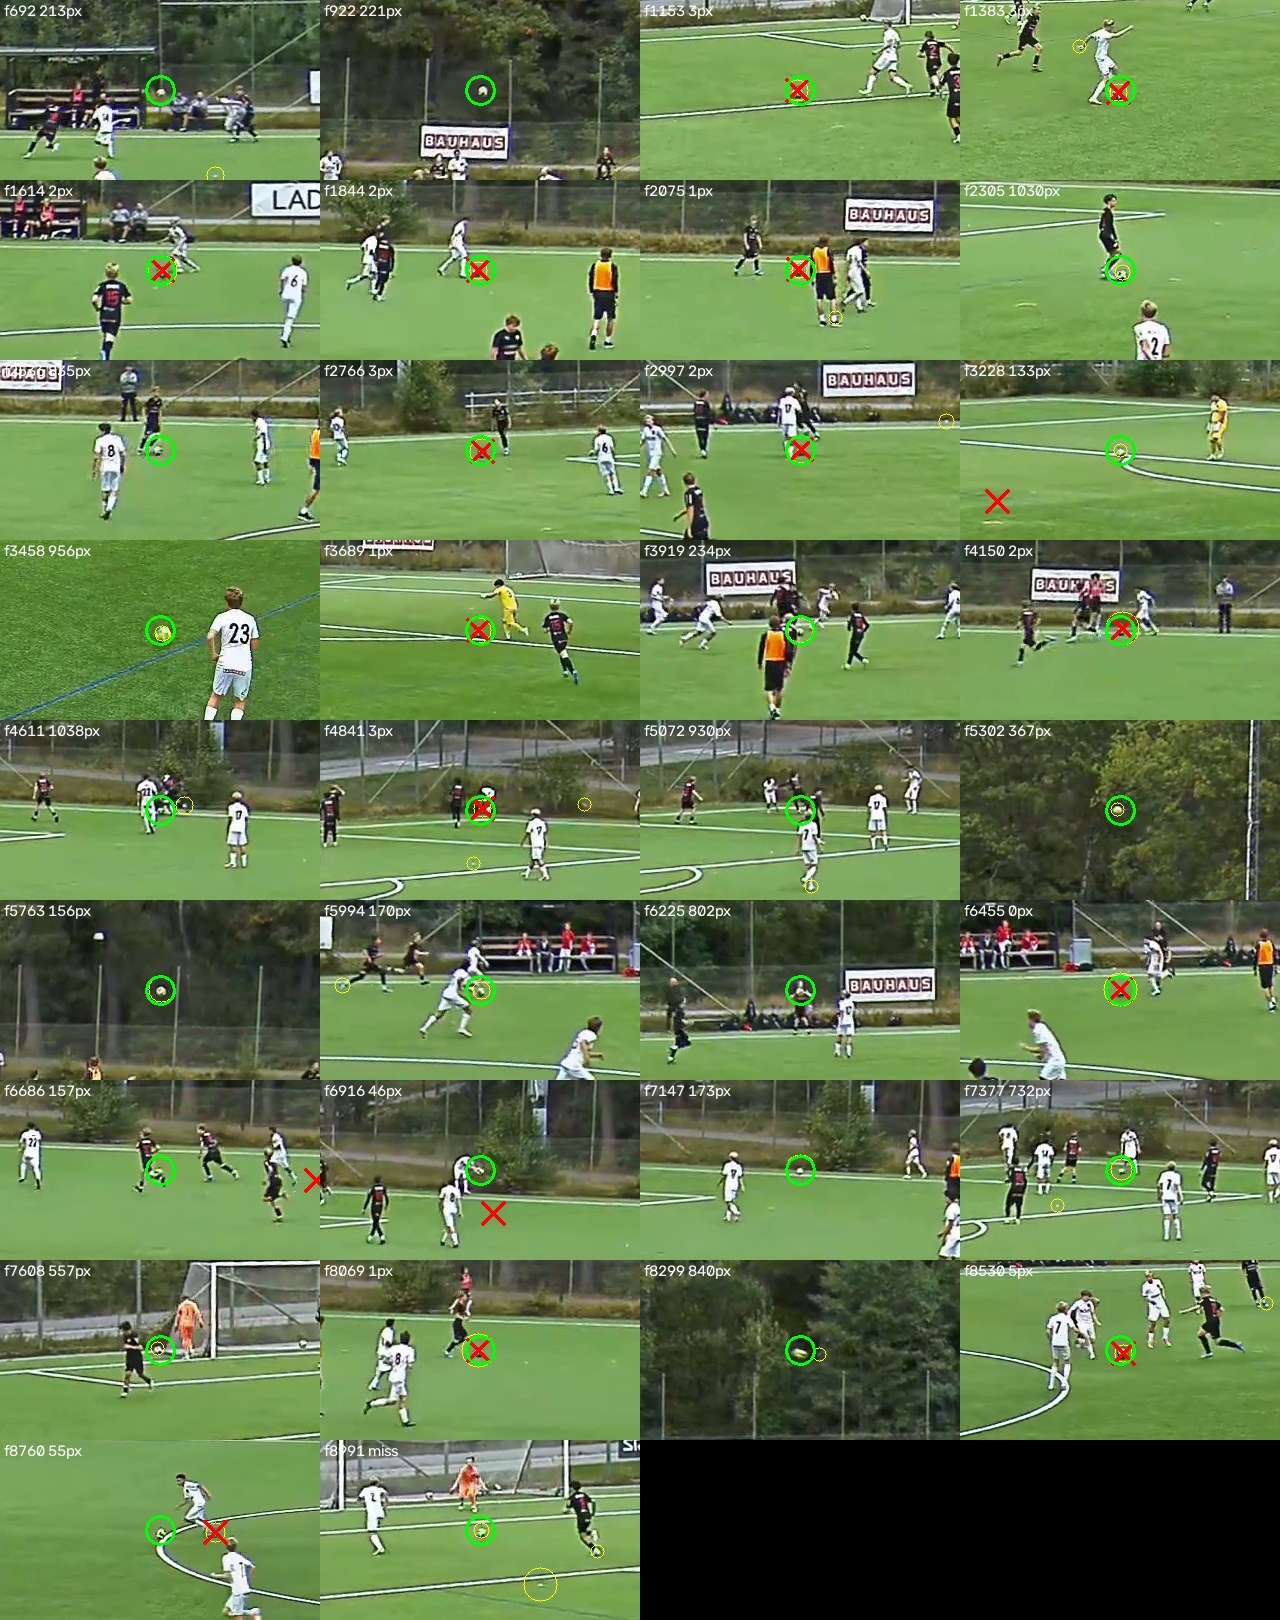
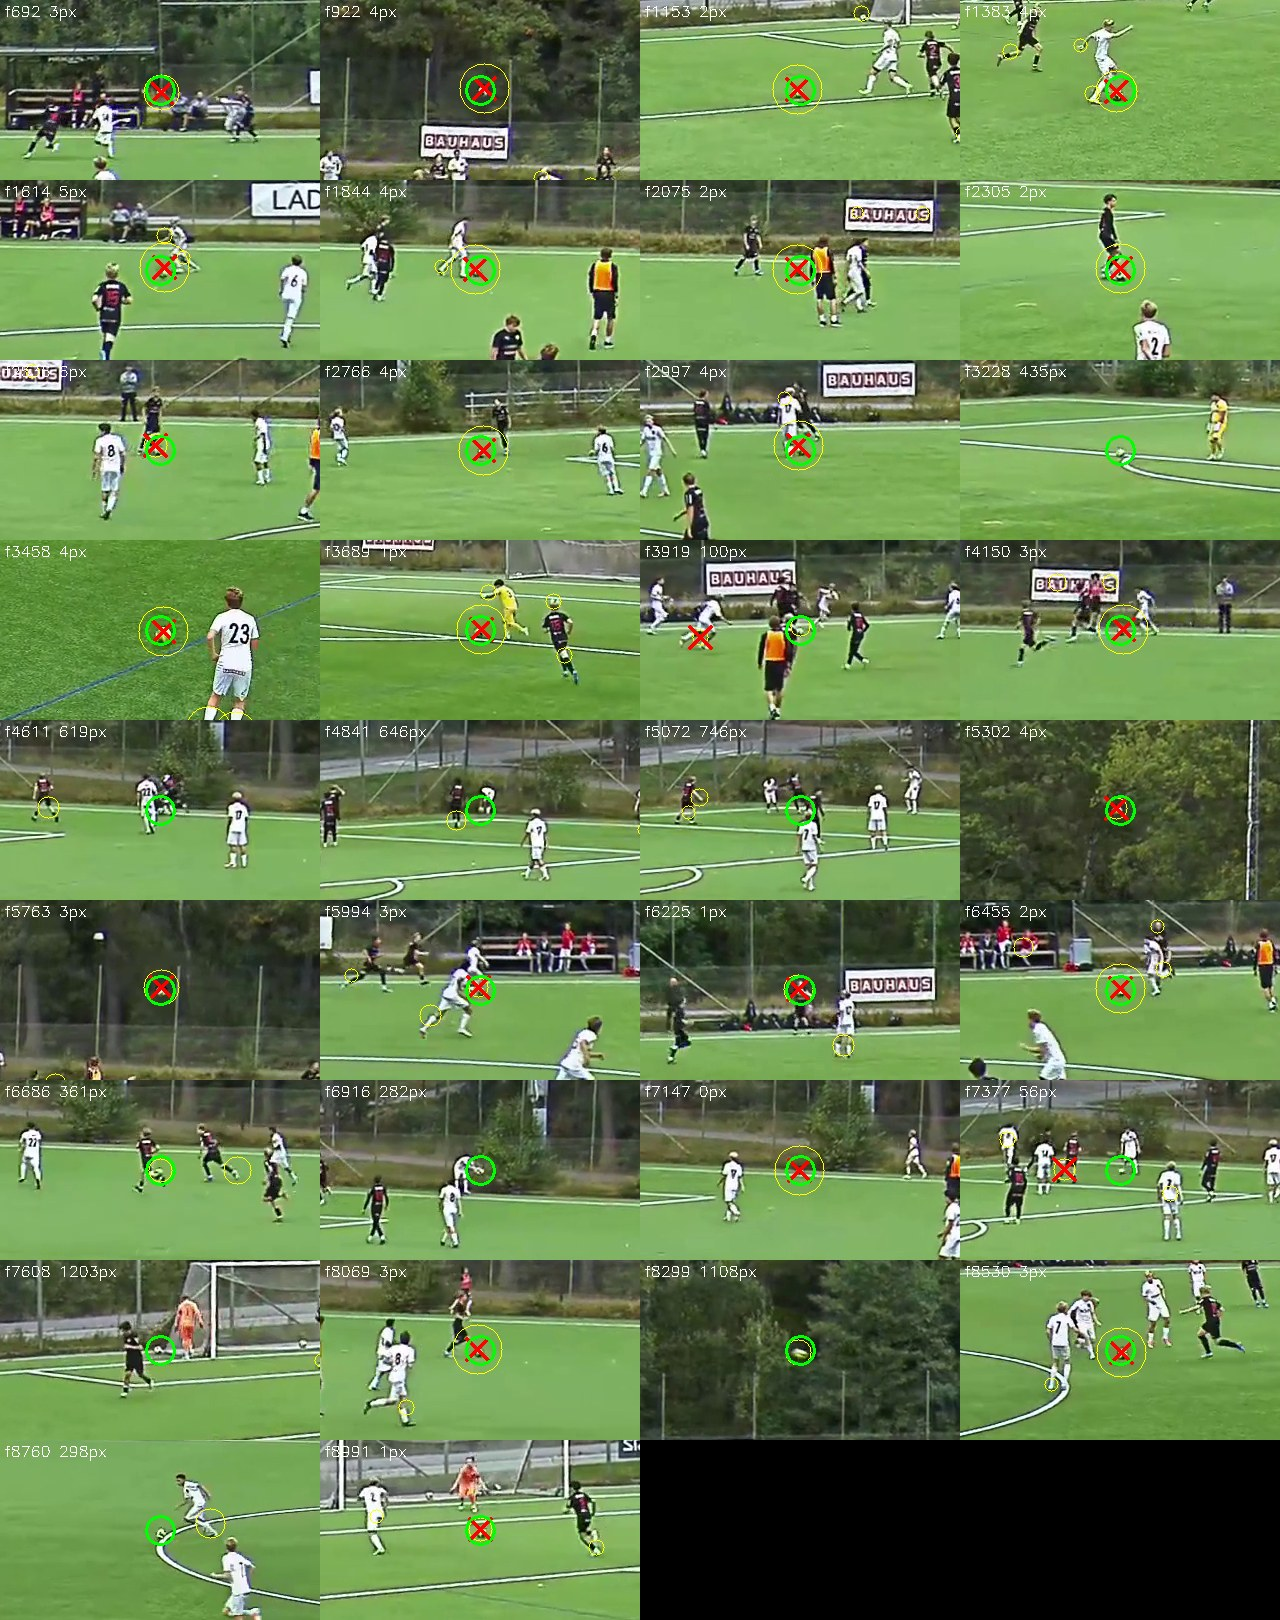
modal results

diff --git a/results/scoreboard.md b/results/scoreboard.md
@@ -14,3 +14,4 @@ Ball check = correct picks on held-out labelled frames; ceiling = frames where t
 | 2026-09-26 15:28 | fbbdb8a | SFKBP1109_s1200 | 0.27.0 | 22/34 | 25 | — | withheld | withheld | {'A': 5.0, 'B': 8.0} | WASB-only candidates, 2.9/frame · with YOLO: 16/34, ceiling 30 · other picker v1: 17/34 |
 | 2026-09-26 17:04 | 0fe2583 | SFKBP1109_s1200 | 0.27.0 | 20/34 | 19 | — | withheld | withheld | {'A': 5.0, 'B': 8.0} |  · with YOLO: 16/34, ceiling 29 · other picker v1: 16/34 |
 | 2026-09-26 19:55 | bb11ea0 | SFKBP1109_s1200 | 0.27.0 | —/— | — | — | withheld | withheld | — |  |
+| 2026-09-27 16:51 | 0a8efe2 | SFKBP1109_s1200 | 0.27.0 | 23/34 | 27 | — | OK | withheld | {'A': 6.0, 'B': 8.0} |  · with YOLO: 14/34, ceiling 31 · other picker v1: 15/34 |
